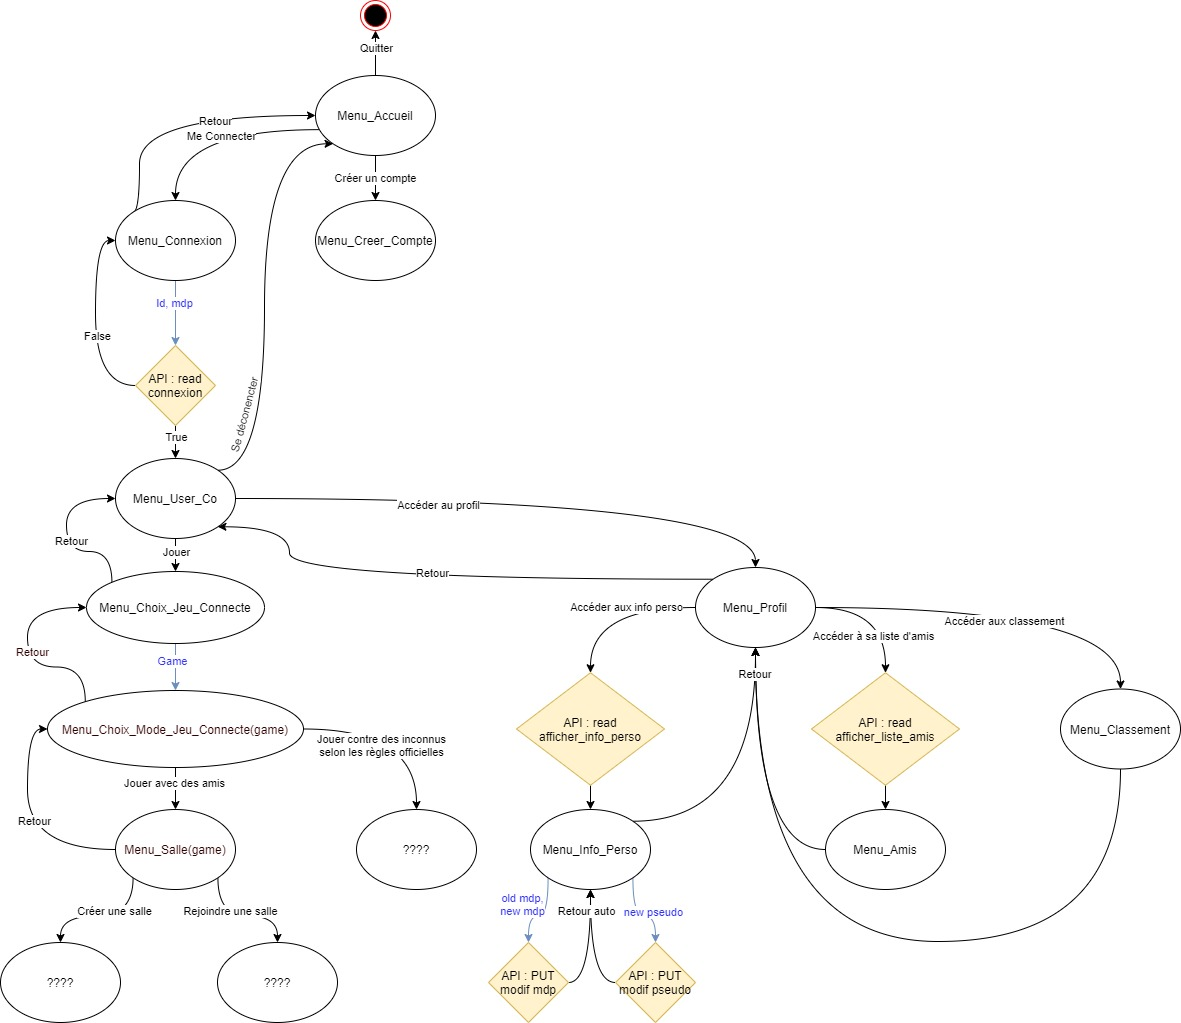
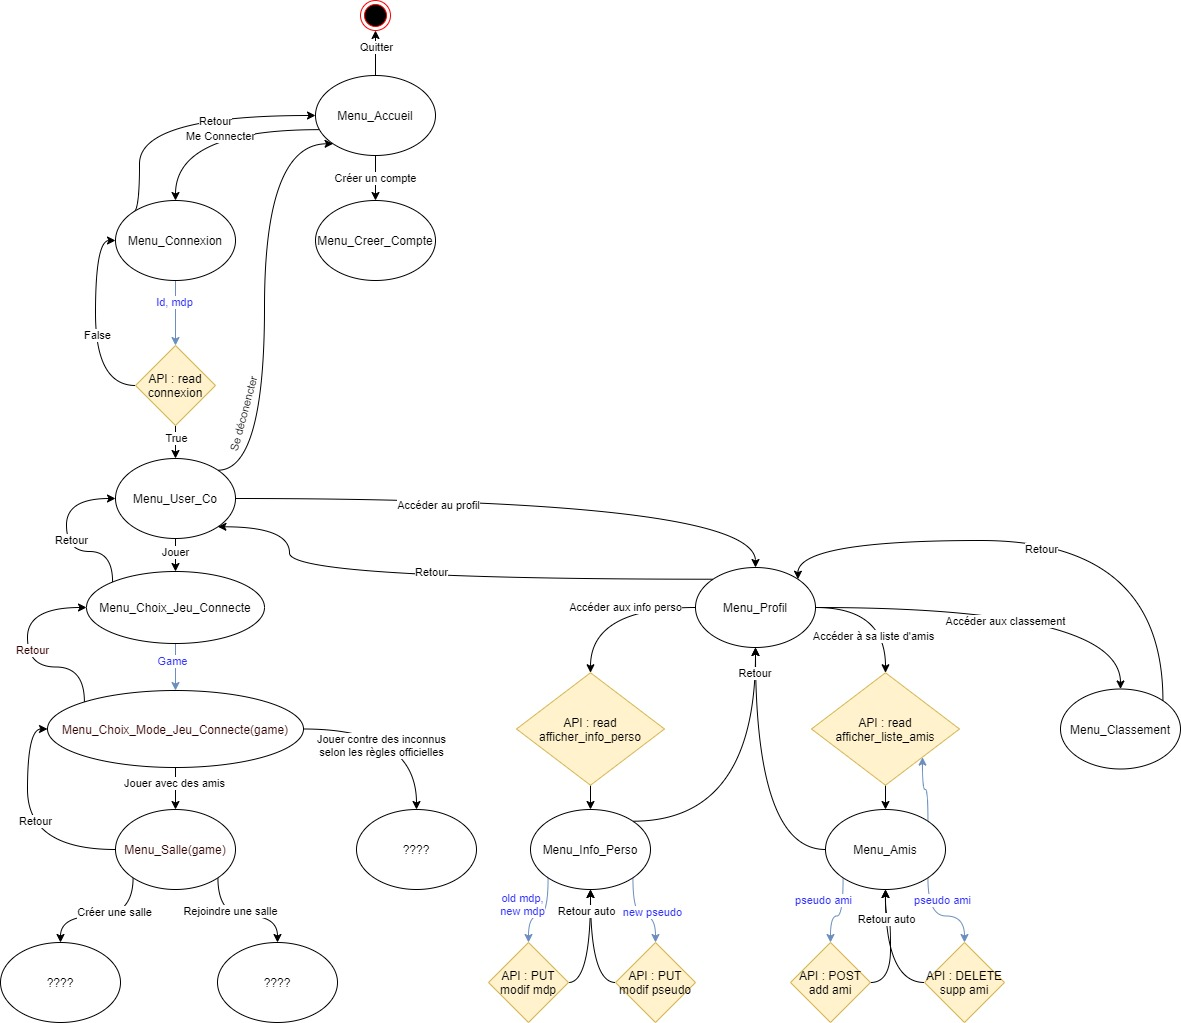
MAJ client vues

diff --git a/AppClient2/menu_Amis.py b/AppClient2/menu_Amis.py
@@ -14,9 +14,9 @@ class Menu_Ami(AbstractView):
                 'name' : 'menu_Ami',
                 'message' : "Que souhaitez-vous faire ?",
                           'choices' : [
-                              'Afficher ma liste d\'amis',
                               'Ajouter un ami',
                               'Supprimer un ami',
+                              'Afficher ma liste d\'amis',
                               inquirer.Separator(),
                               'Revenir au menu précédent',
                           ]
@@ -28,15 +28,127 @@ class Menu_Ami(AbstractView):
     def make_choice(self):
         while True:
             self.reponse = inquirer.prompt(self.questions)
-            if self.reponse["menu_Ami"] == "Afficher ma liste d\'amis":
-                print("Vous avez choisi de voir votre liste d\'amis")
-            elif self.reponse["menu_Ami"] == "Ajouter un ami":
-                print("Vous avez décidé d\'ajouter un ami")
+            
+            if self.reponse["menu_Ami"] == "Ajouter un ami":
+                return self.ajout_ami()
             elif self.reponse["menu_Ami"] == "Supprimer un ami":
-                print("Vous avez choisi de supprimer un ami")
+                return self.supp_ami()
+            elif self.reponse["menu_Ami"] == "Afficher ma liste d\'amis":
+                return self.voir_liste_ami()
             elif self.reponse["menu_Ami"] == "Revenir au menu précédent":
-                print("Vous allez être redirigé vers le menu précédent.")
-                break
+                import menu_Profil as MP
+                Retour = MP.Menu_Profil()
+                Retour.display_info()
+                return Retour.make_choice()            
+            else:
+                print("erreur")
+            break
+                
+
+    def ajout_ami(self):
+        self.ajoutAmiQ = [
+            {
+                'type': 'input',
+                'name': 'ami_add',
+                'message': "Veuillez fournir le pseudo de l'ami à ajouter à la liste des amis.",
+            }
+        ]
+        while True:
+            self.ajoutAmiR = inquirer.prompt(self.ajoutAmiQ)
+            pseudo_a_add = self.ajoutAmiR["ami_add"]
+
+            #on fournit ce pseudo à l'api. Elle vérifie si il existe. Si il existe, elle l'ajoute à la liste de vos amis
+            print("*** ON SIMULE QUE L API A BIEN FOCNTIONNE ***")
+            does_pseudo_exist = True
+            has_API_worked = True
+
+            if not does_pseudo_exist:
+                print("Le pseudo a ajouté à votre liste d'ami n'exsite pas.")
+                return echec_ajout_ami()
+            if has_API_worked:
+                print("Votre nouvel ami a bien été ajouté à votre liste d'amis.")
+                return self.make_choice()
+            else:
+                print("Erreur dans l'API add_friend.")
+            break
+    def echec_ajout_ami(self):
+        self.echecAjoutAmiQ = [
+            {
+                'type': 'list',
+                'name': 'Retour',
+                'message': "Que souhaitez-vous faire ?",
+                    'choices': [
+                        'Réessayer',
+                        'Retourner au menu de la liste des amis',
+                    ]
+            },
+        ]
+        while True:
+            self.echecAjoutAmiR = inquirer.prompt(self.echecAjoutAmiQ)
+            if self.echecAjoutAmiR["Retour"] == "Réessayer":
+                return self.ajout_ami()
+            elif self.echecAjoutAmiR["Retour"] == "Retourner au menu de la liste des amis":
+                return self.make_choice()
+            else:
+                print("Erreur dans echec_ajout_ami")
+            break
+
+    def supp_ami(self):
+        self.suppAmiQ = [
+            {
+                'type': 'input',
+                'name': 'ami_supp',
+                'message': "Veuillez fournir le pseudo de l'ami à supprmier de la liste des amis.",
+            }
+        ]
+        while True:
+            self.suppAmiR = inquirer.prompt(self.suppAmiQ)
+            pseudo_a_supp = self.suppAmiR["ami_supp"]
+
+            #on fournit ce pseudo à l'api. Elle vérifie si il existe dans votre liste d'amis. Si il existe, elle le supprime de la liste de vos amis
+            print("*** ON SIMULE QUE L API A BIEN FOCNTIONNE ***")
+            does_pseudo_exist = True
+            is_pseudo_in_your_list = True
+            has_API_worked = True
+
+            if not does_pseudo_exist:
+                print("Le pseudo à supprimer de votre liste d'ami n'exsite pas.")
+                return self.echec_supp_ami()
+            if not is_pseudo_in_your_list:
+                print("Vous n'êtes pas ami avec cette personne")
+                return self.echec_supp_ami()
+            if has_API_worked:
+                print("Votre nouvel ami a bien été supprimé de votre liste d'amis.")
+                return self.make_choice()
+            else:
+                print("Erreur dans l'API supp_friend.")
+            break
+    def echec_supp_ami(self):
+        self.echecSuppAmiQ = [
+            {
+                'type': 'list',
+                'name': 'Retour',
+                'message': "Que souhaitez-vous faire ?",
+                    'choices': [
+                        'Réessayer',
+                        'Retourner au menu de la liste des amis',
+                    ]
+            },
+        ]
+        while True:
+            self.echecSuppAmiR = inquirer.prompt(self.echecSuppAmiQ)
+            if self.echecSuppAmiR["Retour"] == "Réessayer":
+                return self.supp_ami()
+            elif self.echecsuppAmiR["Retour"] == "Retourner au menu de la liste des amis":
+                return self.make_choice()
+            else:
+                print("Erreur dans echec_supp_ami")
+            break
+
+    def voir_liste_ami(self):
+        #l'API affiche votre liste d'ami
+        print("*** ON SIMULE QUE L API AFFICHE LA LISTE D AMI")
+        return self.make_choice()
 
 
 if __name__ == "__main__": 

diff --git a/AppClient2/menu_Mod_Inf.py b/AppClient2/menu_Mod_Inf.py
@@ -33,7 +33,7 @@ class Menu_Modif_Inf(AbstractView):
                 return self.modif_mdp()
             elif self.reponse["menu_Modif_Info"] == "Revenir au menu précédent":
                 import menu_Profil as MP
-                Retour = MP.menu_Profil()
+                Retour = MP.Menu_Profil()
                 Retour.display_info()
                 return Retour.make_choice()
             else:

diff --git a/AppClient2/menu_Profil.py b/AppClient2/menu_Profil.py
@@ -41,7 +41,7 @@ class Menu_Profil(AbstractView):
             	return InfPerso.make_choice()
 
             elif self.reponse["menu_Profil"] == "Accéder à ma liste d\'amis":
-                Amis = MA.menu_Amis()
+                Amis = MA.Menu_Ami()
                 Amis.display_info()
                 return Amis.make_choice()
 
